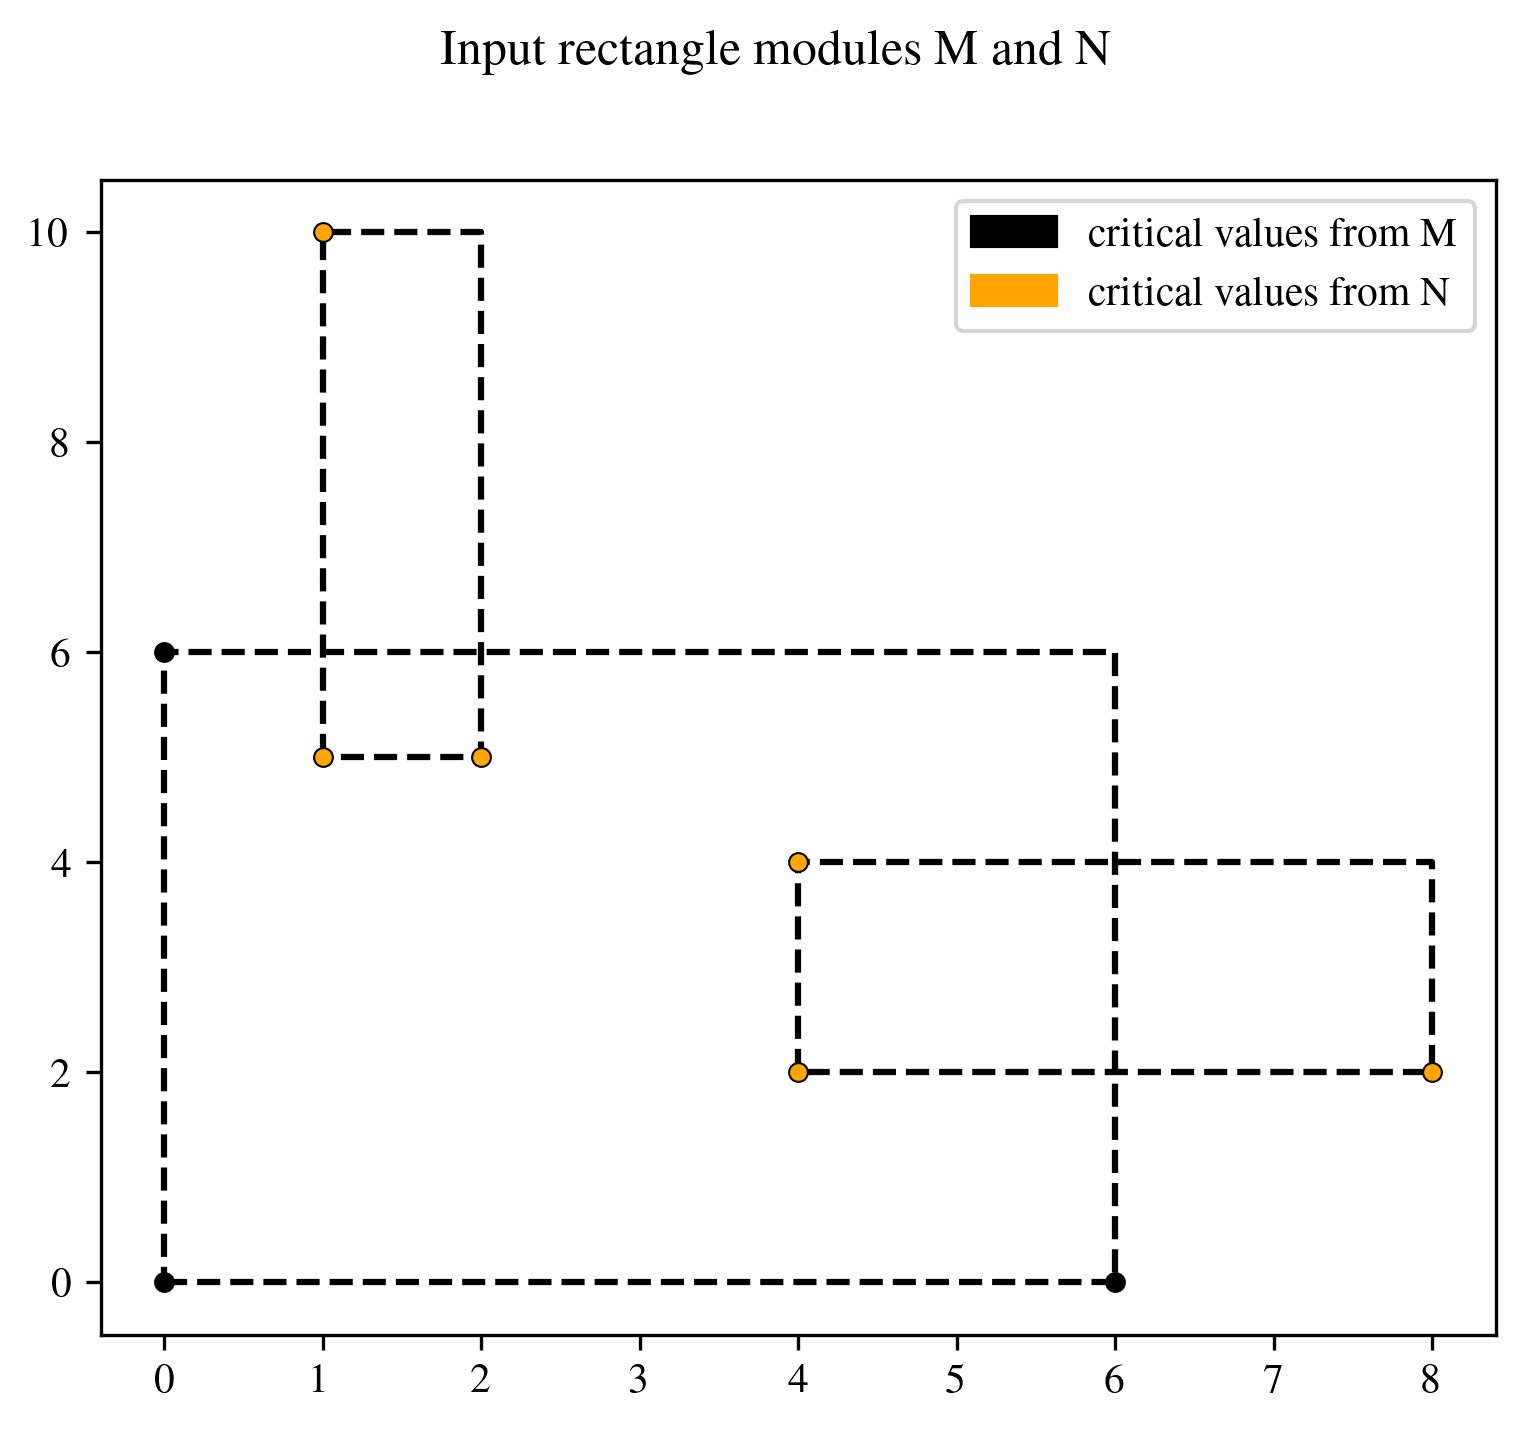
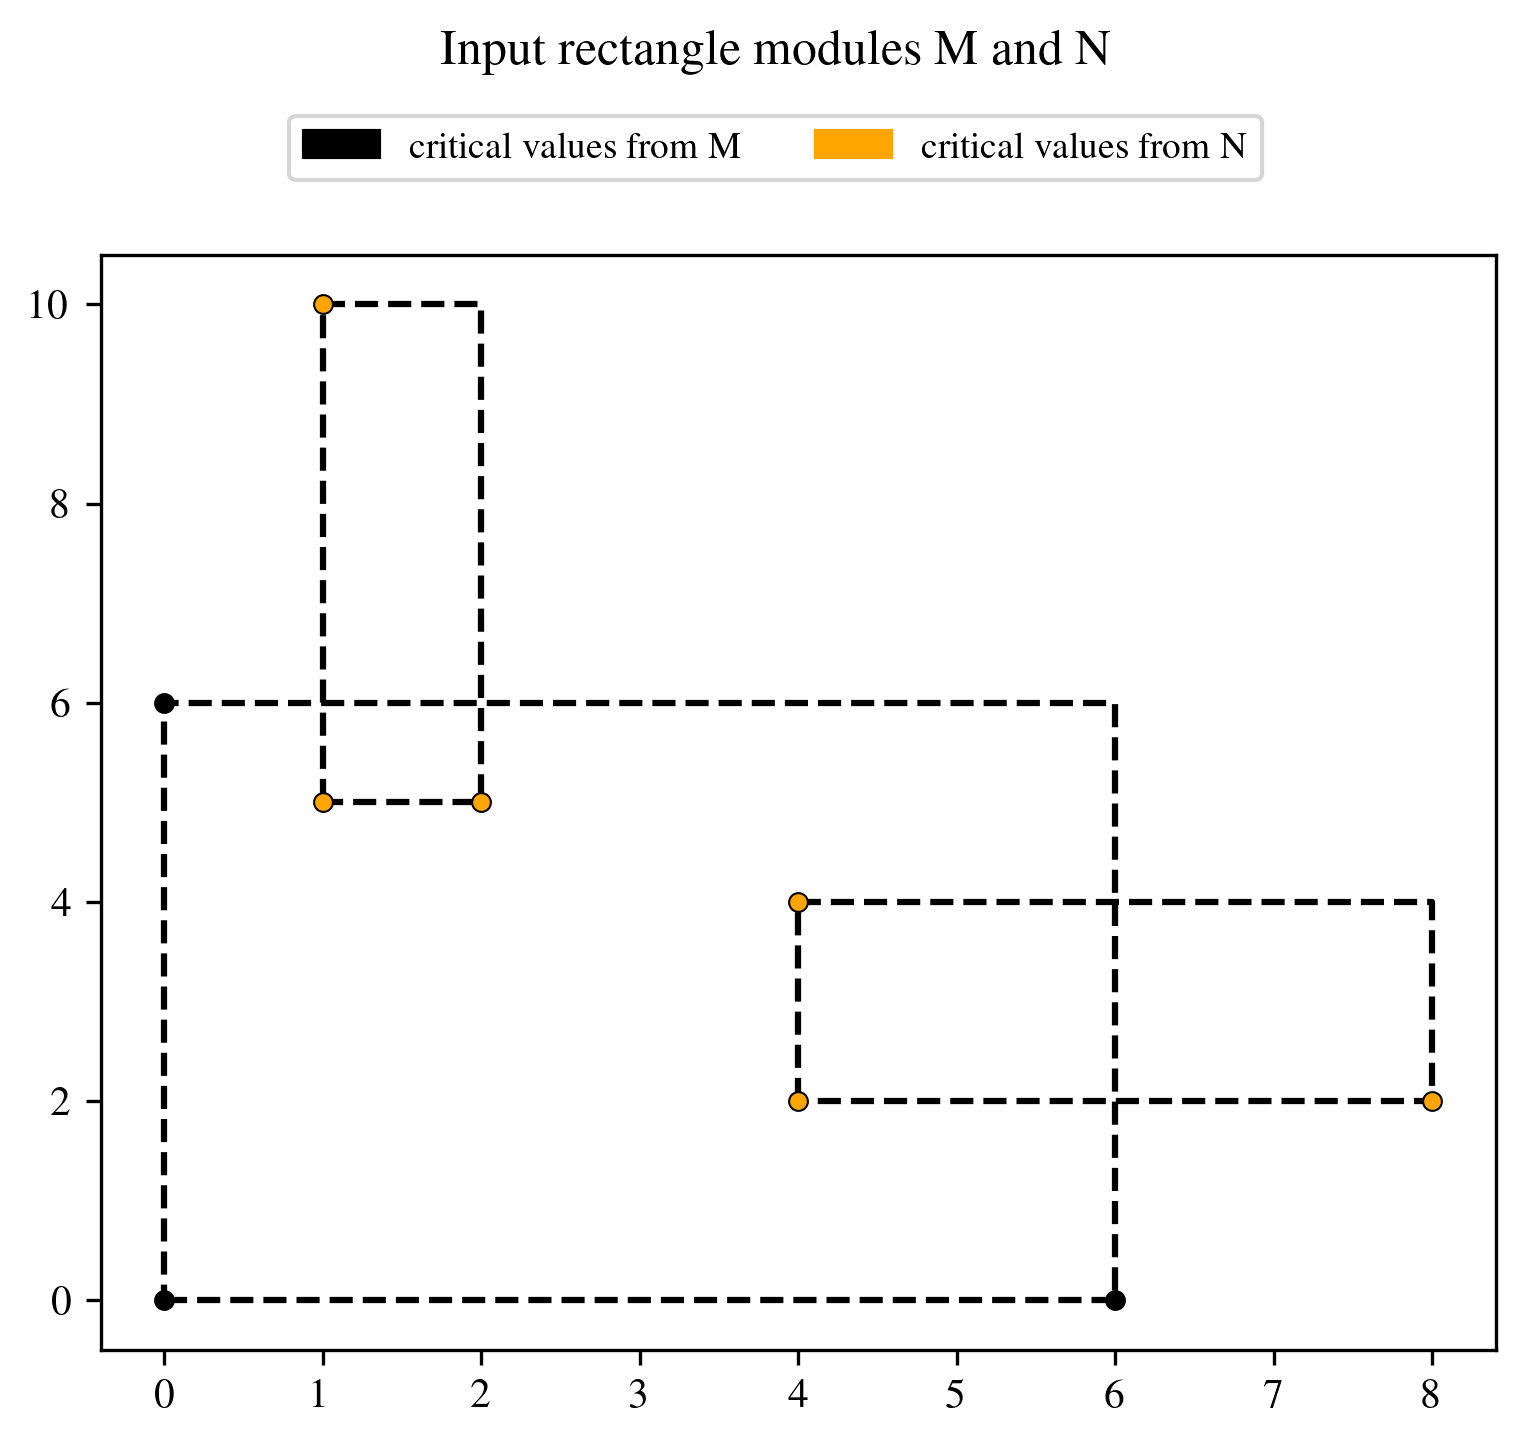
Give the Figure 6 panels the same titles and legends
Every panel of Figure 6 now has its title, then a one-row legend, then the
plot. The panels are named as in the caption (Algorithm 3 (3v1), Algorithm 5
(2v2 paired), Algorithm 7 (2v2 unpaired)), and the legend of the Section 5
pruning row sits above its panels, as in the paper. The MN*.png panels and
combination_rerun.png are regenerated.

diff --git a/Code/figure_toy_example.py b/Code/figure_toy_example.py
@@ -27,9 +27,9 @@ from toy_example_helpers import run_algorithms
 
 OUT_DIR = settings.figure_dir
 DPI = 300
-TITLE = "M and N"
+# panel titles, the same in every row of the figure and named as in the caption
+ALG_TITLES = {"alg3": "Algorithm 3 (3v1)", "alg5": "Algorithm 5 (2v2 paired)", "alg7": "Algorithm 7 (2v2 unpaired)"}
 LABEL_POINTS = "candidate switch points"          # legend text; the SoCG version said "switch points"
-LABEL_SLOPES = "candidate switch points or slopes"
 LABEL_M, LABEL_N = "critical values from M", "critical values from N"
 RED, BLACK, ORANGE = "red", "black", "orange"
 
@@ -50,22 +50,31 @@ def patches(first_label):
             mpatches.Patch(color=ORANGE, label=LABEL_N)]
 
 
+def title_and_legend(fig, title, handles):
+    """Every panel: its title, then the same one-row legend under it, then the plots,
+    aligned at the top so that none floats below the legend."""
+    fig.suptitle(title, y=0.99)
+    fig.legend(handles=handles, loc="upper center", ncol=len(handles), bbox_to_anchor=(0.5, 0.945), fontsize=9)
+    fig.subplots_adjust(top=0.84)
+    for ax in fig.axes:
+        ax.set_anchor("N")
+
+
 def input_panel(crits_no_lub, path):
     fig, ax = plt.subplots()
     fig.set_dpi(DPI)
     fig.set_size_inches(6, 5)
-    fig.suptitle("Input rectangle modules M and N")
     for i in (0, 3, 6):  # each rectangle is given by its bottom-left, bottom-right and top-left corner
         p1, p2, p3 = (np.array(crits_no_lub[i + k][0]) for k in range(3))
         p4 = p2 + p3 - p1
         ax.plot([p1[0], p2[0], p4[0], p3[0], p1[0]], [p1[1], p2[1], p4[1], p3[1], p1[1]], "k--")
     draw_crit_vals(ax, crits_no_lub)
-    ax.legend(handles=patches(None)[1:], loc="upper right")
+    title_and_legend(fig, "Input rectangle modules M and N", patches(None)[1:])
     fig.savefig(path, dpi=DPI, bbox_inches="tight")
     plt.close(fig)
 
 
-def points_panel(crits_no_lub, points, alg, path):
+def points_panel(crits_no_lub, points, title, path):
     fig, ax = plt.subplots()
     fig.set_dpi(DPI)
     fig.set_size_inches(6, 5)
@@ -73,13 +82,12 @@ def points_panel(crits_no_lub, points, alg, path):
     for x, y in sorted(points):
         ax.plot(x, y, "o", color=RED, alpha=0.8, markersize=4)
     draw_crit_vals(ax, crits_no_lub)
-    ax.set_title(alg + " Algorithm for " + TITLE)
-    ax.legend(handles=patches(LABEL_POINTS), loc="best")
+    title_and_legend(fig, title, patches(LABEL_POINTS))
     fig.savefig(path, dpi=DPI, bbox_inches="tight")
     plt.close(fig)
 
 
-def points_and_slopes_panel(crits_no_lub, points, slopes, alg, path):
+def points_and_slopes_panel(crits_no_lub, points, slopes, title, path):
     fig, (ax1, ax2) = plt.subplots(nrows=1, ncols=2)
     fig.set_dpi(DPI)
     fig.set_size_inches(6, 5)
@@ -94,8 +102,7 @@ def points_and_slopes_panel(crits_no_lub, points, slopes, alg, path):
         ax2.plot([0, x], [0, float(m) * x], color=RED)
         ax2.scatter(x, float(m) * x, color=RED)
     draw_crit_vals(ax1, crits_no_lub)
-    fig.suptitle(alg + " Algorithm for " + TITLE)
-    ax1.legend(handles=patches(LABEL_SLOPES), bbox_to_anchor=(0.64, 1.31), loc="upper left")
+    title_and_legend(fig, title, patches(LABEL_POINTS))
     fig.savefig(path, dpi=DPI, bbox_inches="tight")
     plt.close(fig)
 
@@ -127,9 +134,9 @@ if __name__ == "__main__":
 
     paths = [os.path.join(OUT_DIR, n) for n in ("MN.png", "MN3v1.png", "MN2v2p.png", "MN2v2unp.png")]
     input_panel(crits_no_lub, paths[0])
-    points_panel(crits_no_lub, a3["points"], "3v1", paths[1])
-    points_and_slopes_panel(crits_no_lub, set(), a5["slopes"], "2v2 Paired", paths[2])
-    points_and_slopes_panel(crits_no_lub, a7["points"], a7["slopes"], "2v2 Unpaired", paths[3])
+    points_panel(crits_no_lub, a3["points"], ALG_TITLES["alg3"], paths[1])
+    points_and_slopes_panel(crits_no_lub, set(), a5["slopes"], ALG_TITLES["alg5"], paths[2])
+    points_and_slopes_panel(crits_no_lub, a7["points"], a7["slopes"], ALG_TITLES["alg7"], paths[3])
     os.makedirs(settings.output_dir, exist_ok=True)
     preview(paths, os.path.join(settings.output_dir, "toy_example_preview_2x2.png"))
     print("panels written to", OUT_DIR)

diff --git a/Code/figure_toy_pruning.py b/Code/figure_toy_pruning.py
@@ -27,7 +27,7 @@ settings.print_output = False
 settings.save_figure = False
 import examples as ex
 from toy_example_helpers import run_algorithms, exact_distance, approximation_lower_bound
-from figure_toy_example import draw_crit_vals, RED, BLACK, ORANGE, LABEL_M, LABEL_N  # same style as Figure 6
+from figure_toy_example import draw_crit_vals, ALG_TITLES, RED, BLACK, ORANGE, LABEL_M, LABEL_N  # same style as Figure 6
 
 OUT_PNG = os.path.join(settings.figure_dir, "MN_section5_pruning.png")
 VARIANTS = [("no pruning", False, False), ("Section 4", True, False), ("Sections 4 + 5", True, True)]
@@ -46,7 +46,7 @@ def draw_figure(base, pruned, crits_no_lub, D, dist, path):
         for x, y in sorted(p):
             ax.plot(x, y, "o", color=RED, alpha=0.8, markersize=4)
         draw_crit_vals(ax, crits_no_lub)
-        ax.set_title(f"{title}\n{len(b)} $\\to$ {len(p)} candidate points")
+        ax.set_title(f"{title}\n{len(b)} $\\to$ {len(p)} points")
         ax.set_aspect("equal")
 
     def slope_panel(ax, alg, title):
@@ -62,19 +62,21 @@ def draw_figure(base, pruned, crits_no_lub, D, dist, path):
         ax.set_aspect("equal")
         ax.set_title(f"{title}\n{len(b)} $\\to$ {len(p)} slopes")
 
-    fig, axs = plt.subplots(1, 4, figsize=(13, 4.2), gridspec_kw={"width_ratios": [1.15, 1, 1.15, 1], "wspace": 0.3})
-    point_panel(axs[0], "alg3", "3v1 Algorithm")
-    slope_panel(axs[1], "alg5", "2v2 Paired Algorithm")
-    point_panel(axs[2], "alg7", "2v2 Unpaired Algorithm, points")
-    slope_panel(axs[3], "alg7", "2v2 Unpaired Algorithm, slopes")
+    fig, axs = plt.subplots(1, 4, figsize=(13, 4.8), gridspec_kw={"width_ratios": [1.15, 1, 1.15, 1], "wspace": 0.3})
+    fig.subplots_adjust(top=0.75)  # room for the title and the legend above the panels
+    point_panel(axs[0], "alg3", ALG_TITLES["alg3"])
+    slope_panel(axs[1], "alg5", ALG_TITLES["alg5"])
+    point_panel(axs[2], "alg7", ALG_TITLES["alg7"])
+    slope_panel(axs[3], "alg7", ALG_TITLES["alg7"])
     for ax in axs:
         ax.set_anchor("N")
     handles = [mpatches.Patch(color=RED, label="kept after Section 5 pruning"),
                mpatches.Patch(color=GONE, label="removed by Section 5 pruning"),
                mpatches.Patch(color=BLACK, label=LABEL_M),
                mpatches.Patch(color=ORANGE, label=LABEL_N)]
-    fig.legend(handles=handles, loc="lower center", ncol=4, bbox_to_anchor=(0.5, -0.03))
-    fig.suptitle(f"Effect of Section 5 pruning for M and N ($D = {D:g}$, $d_{{match}}(M,N) = {dist:g}$)", y=1.13)
+    # title, then the legend, then the panels, as in the upper rows of Figure 6
+    fig.suptitle(f"Effect of Section 5 pruning for M and N ($D = {D:g}$, $d_{{match}}(M,N) = {dist:g}$)", y=0.99)
+    fig.legend(handles=handles, loc="upper center", ncol=4, bbox_to_anchor=(0.5, 0.925), fontsize=9)
     fig.savefig(path, dpi=300, bbox_inches="tight")
 
 if __name__ == "__main__":
